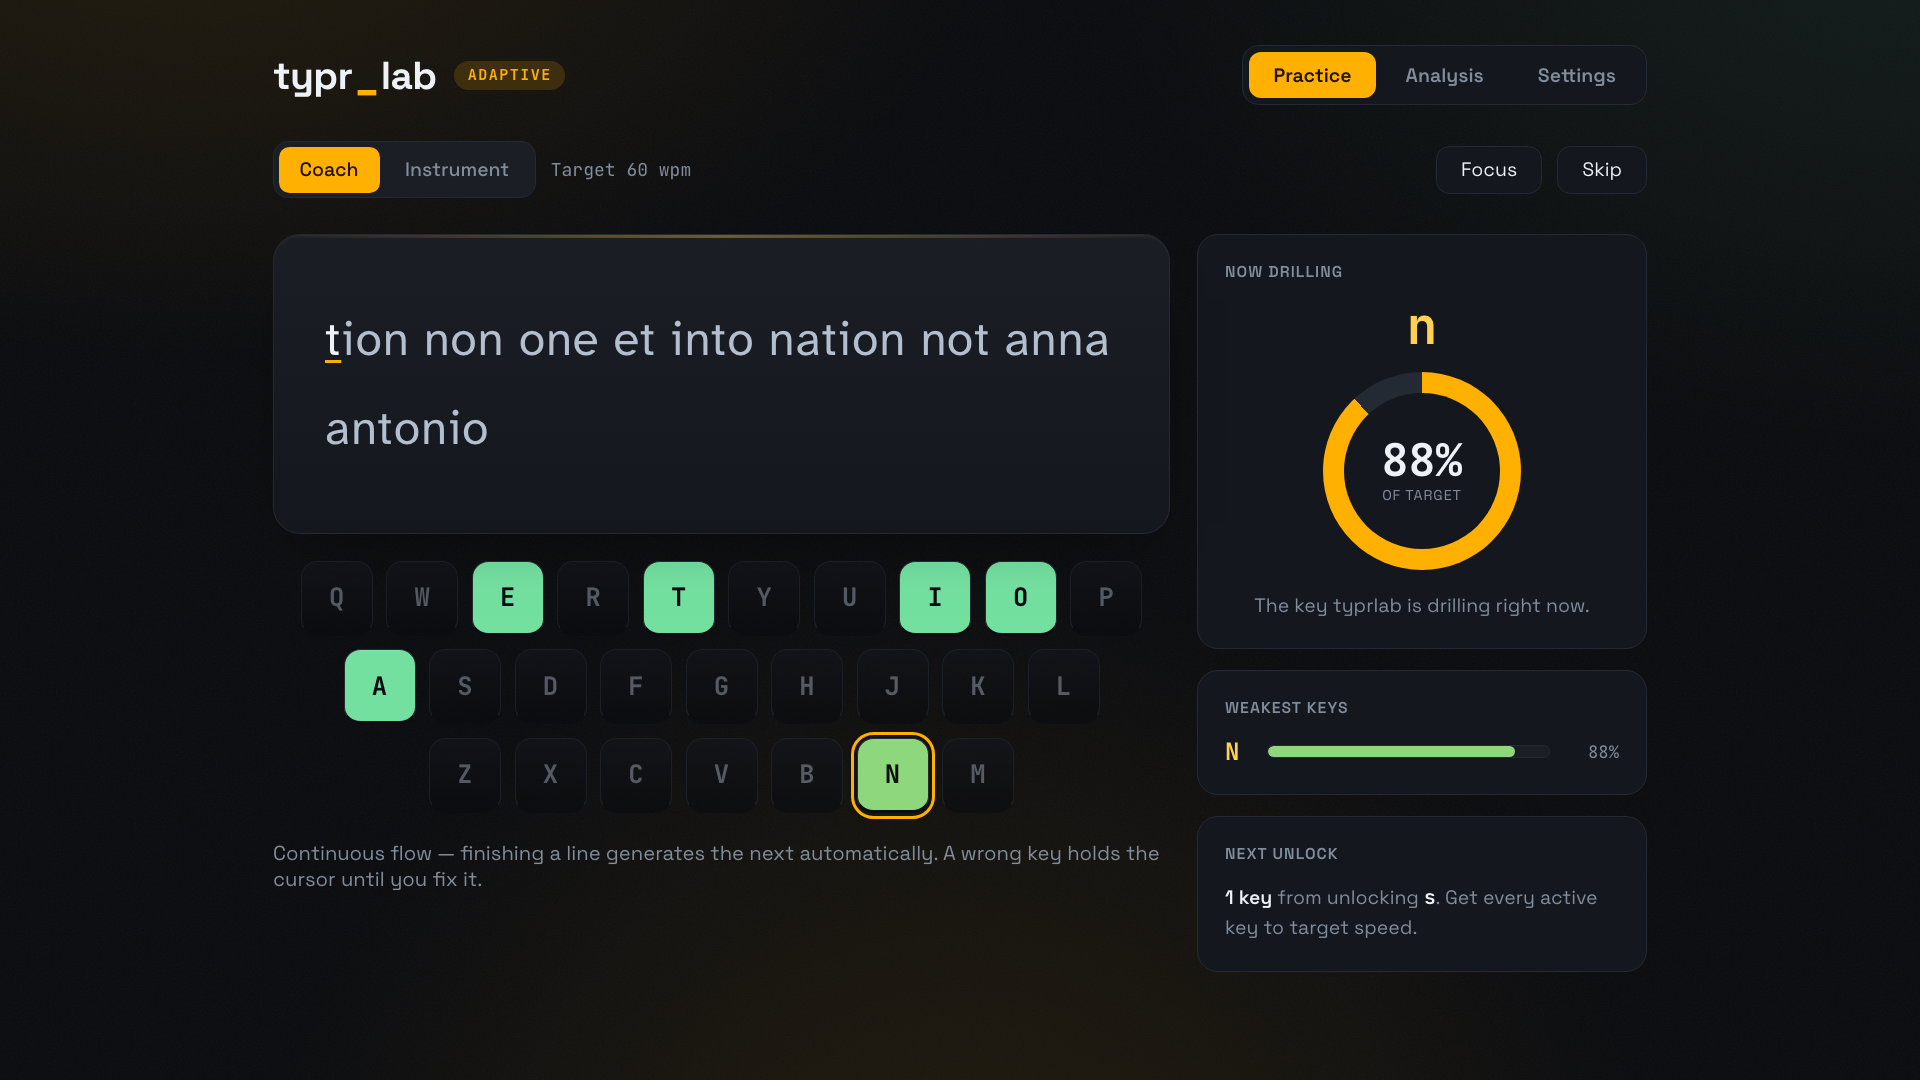
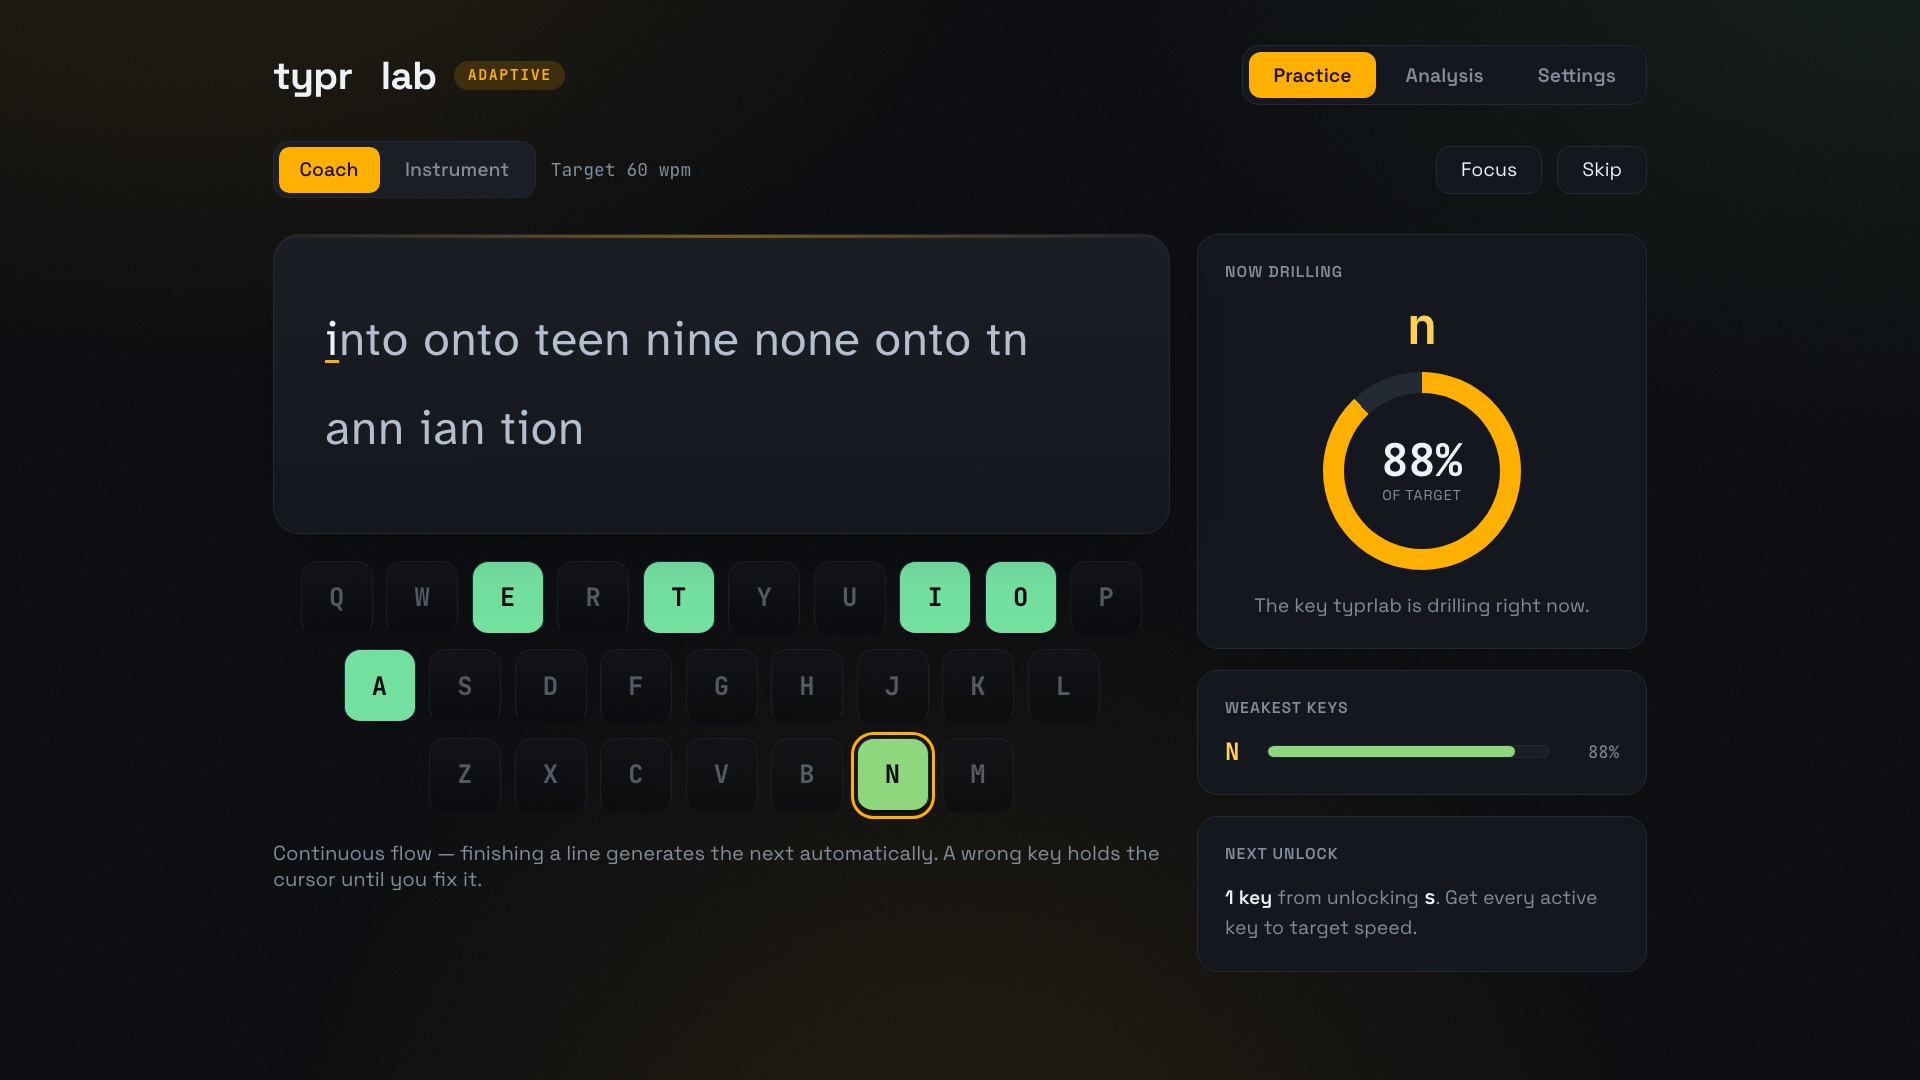
docs: add a Settings screenshot (shows lesson length) + refresh shots
Adds docs/screenshots/settings.png — the two-pane Settings showing practice mode,
the new lesson-length control, daily goal, key-introduction order, and the live
preview — embedded in the Content-modes section with a one-line note. Re-captured
practice.png + analysis.png for consistency (views unchanged).

Changed region(s): [[0.1562, 0.3056, 0.5938, 0.3361], [0.1875, 0.3667, 0.3125, 0.4278]]

diff --git a/README.md b/README.md
@@ -68,6 +68,12 @@ npm run build        # production build
 - **Practice layouts** — **Coach** (a focus rail showing what's being drilled and
   why), **Instrument** (a dense stat strip), plus a chrome-free **Zen** focus mode
   (Esc to exit). Per-key stats accumulate across every mode.
+- **Lesson length** — choose how many words per line (5 / 10 / 15 / 25).
+
+Everything is tunable in **Settings** — practice mode, lesson length, a daily practice
+goal, key-introduction order, plus theme and font pickers:
+
+![typrlab Settings — practice mode, lesson length, daily goal, key-introduction order, plus theme and font pickers](docs/screenshots/settings.png)
 
 A progress **dashboard** answering three questions at a glance — _am I improving?_,
 _what's still slow?_, _have I been consistent?_